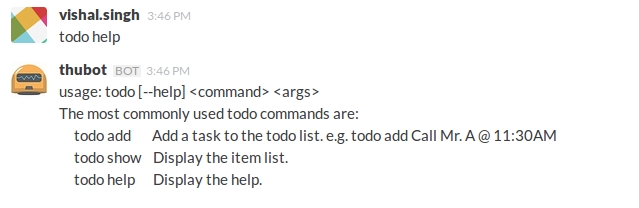
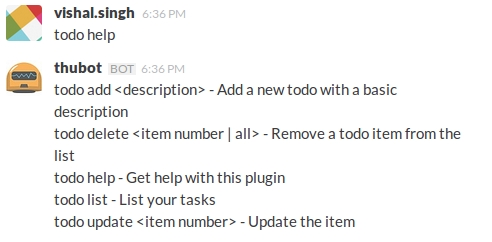
Added update and delete commands.

Changed region(s): [[0.0, 0.0, 0.8232, 0.4904], [0.0915, 0.6058, 0.8841, 0.9519], [0.0915, 0.5192, 0.9451, 0.5769]]

diff --git a/README.md b/README.md
@@ -8,6 +8,12 @@ Functions supported: add, show and help.
 ### todo add <task>
 ![alt text](https://github.com/vishals79/hubot-todo/blob/master/etc/todo-add.jpg "todo add")
 
+### todo update <task-number> <modified-task-desc>
+![alt text](https://github.com/vishals79/hubot-todo/blob/master/etc/todo-update.jpg "todo update")
+
+### todo delete <task-number>
+![alt text](https://github.com/vishals79/hubot-todo/blob/master/etc/todo-delete.jpg "todo delete")
+
 ### todo show
 ![alt text](https://github.com/vishals79/hubot-todo/blob/master/etc/todo-show.jpg "todo show")
 
